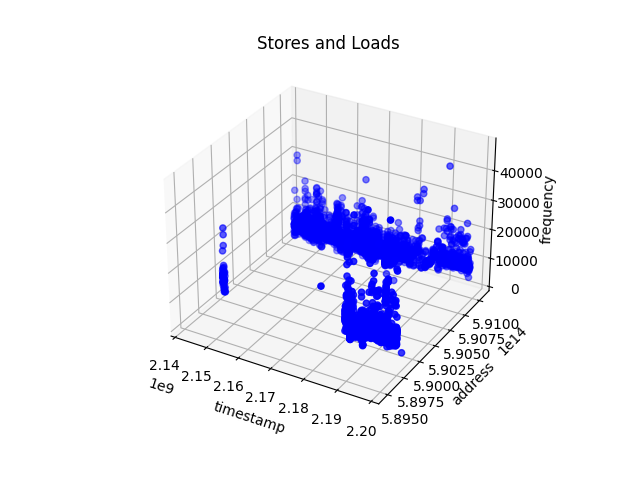
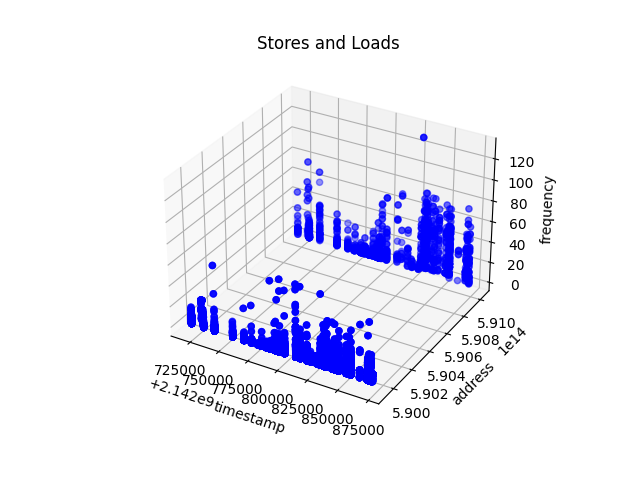
improve plotter

Changed region(s): [[0.2188, 0.1875, 0.8438, 0.9062], [0.7812, 0.5938, 0.8125, 0.625]]

diff --git a/analysis/visualize_trace.py b/analysis/visualize_trace.py
@@ -3,6 +3,7 @@
 import pandas as pd
 import numpy as np
 import matplotlib.pyplot as plt
+from sklearn.cluster import OPTICS
 import sys
 
 assert len(sys.argv) > 1, "provide a trace csv file as argument!"
@@ -31,19 +32,39 @@ def apply_window_sum(data, group_size):
 
     return windowed_data
 
+def select_top_n(data, n):
+    """
+    Select the top n most frequently accessed addresses.
+    """
+    return data.groupby('address').sum().sort_values(by='count', ascending=False).head(n)
+
+def trim_data(data, window_size, start_idx):
+    """
+    Trim the data to the given window size.
+    """
+
+    # Trim the data to the given window size
+    data = data.iloc[start_idx:start_idx+window_size]
+
+    # Reset the index
+    data = data.reset_index(drop=True)
+    
+    return data
+
+def extract_cols(data):
+    x = data['timestamp']
+    y = (data['address']).apply(lambda x: int(str(x), 16))
+    z = data['count']
+    return x, y, z
+
 # Load the data from the CSV file, skipping the found number of rows
 data = pd.read_csv(sys.argv[1], skiprows=range(0, skip_rows + 1), sep=',')
 
-# Group by 1000
-data = apply_window_sum(data, 1000)
+# # Group by 1000
+# data = apply_window_sum(data, 1000)
+data_plot = trim_data(data, 10000, 0)
 
-
-# Extract the 'x', 'y', and 'z' columns from the DataFrame
-x = data['timestamp']
-y_hex = data['address']
-y = y_hex.apply(lambda x: int(str(x), 16))
-z = data['count']
-
+x, y, z = extract_cols(data_plot)
 
 # Create a 3D plot
 fig = plt.figure()
@@ -68,3 +89,26 @@ ax.set_title('Stores and Loads')
 # Display the plot
 # plt.show()
 plt.savefig(f"{sys.argv[1]}.png")
+
+
+# Prepare data for clustering
+data_matrix = np.column_stack((x, y, z))
+
+# Apply OPTICS
+optics = OPTICS(min_samples=5)
+labels = optics.fit_predict(data_matrix)
+
+# Create 3D plot with clustering labels as colors
+fig = plt.figure()
+ax = fig.add_subplot(111, projection='3d')
+ax.scatter(x, y, z, c=labels, cmap='viridis', marker='o')
+
+# Axis labels
+ax.set_xlabel('timestamp')
+ax.set_ylabel('address')
+ax.set_zlabel('frequency')
+ax.set_title('Stores and Loads with OPTICS Clustering')
+
+# Save plot
+plt.savefig(f"{sys.argv[1]}_optics.png")
+
